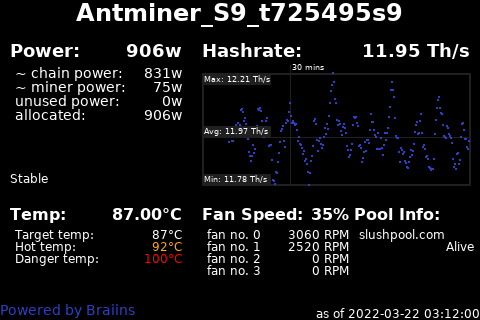
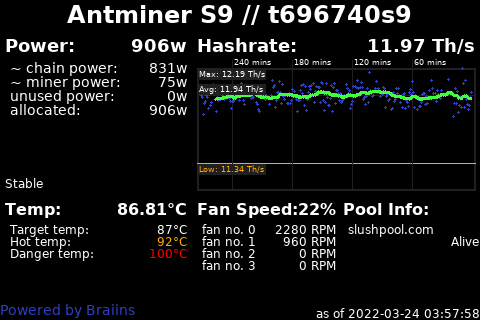
Miner Braiins MA + Monitoring (#72)
- A new moving average line is added to the braiins miner panel
- The braiins miner panel can have expectations defined for power level, hashrate, and pool settings.
  - A value out of spec will cause a warning to be displayed
- README gets some more guidance for different node setups
  - I need more info on nodes. Reach out

diff --git a/scripts/minerbraiins.py b/scripts/minerbraiins.py
@@ -167,6 +167,7 @@ def renderHashrate(draw, minerinfo, left, top, width, height):
     draw.rectangle(xy=[(hrgl,hrgt),(hrgl+hrgw,hrgt+hrgh)],fill=boxfill,outline=colorHashrateBox,width=2)
     # avg line
     hrav = float(hrto) / float(hrcn)
+    hrlo = (hrav * .93) if (hrav * .93) < hrlo else hrlo
     hravp = .5
     if hrhi - hrlo > 0:
         hravp = float(hrav - hrlo)/float(hrhi - hrlo)
@@ -175,21 +176,19 @@ def renderHashrate(draw, minerinfo, left, top, width, height):
     draw.line(xy=[(hrgl,hry),(hrgl+hrgw,hry)],fill=colorHashrateBox,width=1)
     # low line
     lowliney = 0
-    lowlinev = (hrav * .80)
+    lowlinev = (hrav * .95)
+    lowlinecolor = colorHot
     if lowlinev > hrlo:
         hrp = float(lowlinev - hrlo)/float(hrhi-hrlo)
         hry = top + groupFontSize + subtextPadding + ((1.0 - hrp) * hrgh)
         lowliney = hry
-        draw.line(xy=[(hrgl,hry),(hrgl+hrgw,hry)],fill=colorHot,width=1)
-    hrl = len(minerhashhistory[minerkey])
-    hri = hrl
-    hrx = left + width - dataPointSize
+        draw.line(xy=[(hrgl,hry),(hrgl+hrgw,hry)],fill=lowlinecolor,width=1)
     timelineBy30Mins = False
     timelineBy60Ticks = True
     if timelineBy30Mins:
         # time lines every 30 minutes
         pixelsPer30Minutes = 30 * (60 / sleepInterval)
-        timeline = hrx
+        timeline = left + width - dataPointSize
         timeperiod = 0
         while(timeline > left):
             timeline = timeline - pixelsPer30Minutes
@@ -202,7 +201,7 @@ def renderHashrate(draw, minerinfo, left, top, width, height):
         # time lines every 60 ticks
         timePeriodSize = 60
         minutesPerLine = (timePeriodSize * sleepInterval) / 60
-        timeline = hrx
+        timeline = left + width - dataPointSize
         timeperiod = 0
         while(timeline > left):
             timeline = timeline - timePeriodSize
@@ -212,6 +211,12 @@ def renderHashrate(draw, minerinfo, left, top, width, height):
                 timetext = str(int(timeperiod * minutesPerLine)) + " mins"
                 vicarioustext.drawbottomlefttext(draw, timetext, tinyFontSize, timeline+2, hrgt - 1, colorTextFG)
     # data points
+    hrl = len(minerhashhistory[minerkey])
+    hri = hrl
+    hrx = left + width - dataPointSize
+    masize = 20
+    oldmax = -1
+    oldmay = -1
     while(hri > 0):
         hri = hri - 1
         hrx = hrx - 1
@@ -232,6 +237,25 @@ def renderHashrate(draw, minerinfo, left, top, width, height):
             if boxfill == colorDangerous:
                 colorPlot = colorTextFG
             draw.ellipse(xy=[(hrx-1,hry-1),(hrx+1,hry+1)],fill=colorPlot,outline=colorPlot,width=dataPointSize)
+        # moving average
+        if True:
+            if hri > masize:
+                matotal = 0
+                macount = 0
+                for mahri in range(masize):
+                    maval = minerhashhistory[minerkey][hri - mahri]
+                    if maval > -1:
+                        macount = macount + 1
+                        matotal = matotal + maval
+                if macount > 0:
+                    mavg = int(matotal / macount)
+                    mavgp = float(mavg - hrlo)/float(hrhi-hrlo)
+                    mavy = top + groupFontSize + subtextPadding + ((1.0 - mavgp) * hrgh)
+                    if oldmay != -1:
+                        draw.line(xy=[(oldmax,oldmay),(hrx,mavy)],fill=colorHashrateMA,width=dataPointSize)
+                    oldmax = hrx
+                    oldmay = mavy
+
     # high label
     hrmaxt = "Max: " + formatHashrate(hrhi, "Gh/s")
     tw,th,tf=vicarioustext.gettextdimensions(draw, hrmaxt, tinyFontSize, False)
@@ -250,7 +274,7 @@ def renderHashrate(draw, minerinfo, left, top, width, height):
         # as warning
         lowlinet = "Low: " + formatHashrate(lowlinev, "Gh/s")
         draw.rectangle(xy=[(hrgl+1,lowliney+1),(hrgl+tw+2,lowliney+th+2)],outline=colorHashrateBox,fill=colorHashrateBox,width=1)
-        vicarioustext.drawtoplefttext(draw, lowlinet, tinyFontSize, hrgl + 2, lowliney + 1, colorHot)
+        vicarioustext.drawtoplefttext(draw, lowlinet, tinyFontSize, hrgl + 2, lowliney + 1, lowlinecolor)
     else:
         # as floor
         hrmint = "Min: " + formatHashrate(hrlo, "Gh/s")
@@ -324,6 +348,83 @@ def renderPoolInfo(draw, minerinfo, left, top, width, height):
                 vicarioustext.drawtoprighttext(draw, poolstatus, subtextFontSize, left+width, y, colorTextFG)
     vicarioustext.drawtoplefttext(draw, "Pool Info: ", groupFontSize, left, top, colorTextFG, True)
 
+def renderFailedExpectations(draw, minerinfo, left, top, width, height):
+    warning = ""
+    warning2 = ""
+    textFontSize = 12
+    if minerexpectations == {}:
+        return
+    if "power" in minerexpectations:
+        powerlimit = 0
+        if "tunerstatus" in minerinfo:
+            for tunerstatus in minerinfo["tunerstatus"]:
+                for innertuner in tunerstatus["TUNERSTATUS"]:
+                    powerlimit = innertuner["PowerLimit"]
+        if "low" in minerexpectations["power"]:
+            lowpowerthreshold = minerexpectations["power"]["low"]
+            if lowpowerthreshold > powerlimit:
+                warning = "Power configured below expected threshold of " + str(lowpowerthreshold)
+        if "high" in minerexpectations["power"]:
+            highpowerthreshold = minerexpectations["power"]["high"]
+            if highpowerthreshold < powerlimit:
+                warning = "Power configured above expected threshold of " + str(highpowerthreshold)
+    if "hashrate" in minerexpectations:
+        hashrate = 0
+        if "summary" in minerinfo:
+            for summary in minerinfo["summary"]:
+                for innersummary in summary["SUMMARY"]:
+                    if innersummary["MHS 1m"] > hashrate:
+                        hashrate = innersummary["MHS 1m"]
+        if "low" in minerexpectations["hashrate"]:
+            lowhashratethreshold = minerexpectations["hashrate"]["low"]
+            if lowhashratethreshold > hashrate:
+                warning = "Hashrate is below expected threshold of " + str(lowhashratethreshold)
+    if "pools" in minerexpectations:
+        for exppool in minerexpectations["pools"]:
+            poolfound = False
+            urlvalue = ""
+            uservalue = ""
+            if "url" in exppool:
+                urlvalue = exppool["url"]
+            if "user" in exppool:
+                uservalue = exppool["user"]
+            if "pools" in minerinfo:
+                for pool in minerinfo["pools"]:
+                    for currentpool in pool["POOLS"]:
+                        poolurl = currentpool["URL"]
+                        pooluser = currentpool["User"]
+                        if (urlvalue == poolurl) and (uservalue == pooluser):
+                            poolfound = True
+            if not poolfound:
+                warning = "Expected pool not found having user " + uservalue
+                warning2 = " and url " + urlvalue
+        if "pools" in minerinfo:
+            for pool in minerinfo["pools"]:
+                for currentpool in pool["POOLS"]:
+                    poolurl = currentpool["URL"]
+                    pooluser = currentpool["User"]
+                    poolfound = False
+                    for exppool in minerexpectations["pools"]:
+                        if "url" in exppool:
+                            urlvalue = exppool["url"]
+                        if "user" in exppool:
+                            uservalue = exppool["user"]
+                        if (urlvalue == poolurl) and (uservalue == pooluser):
+                            poolfound = True
+                    if not poolfound:
+                        warning = "Miner has pool configured that is not expected"
+                        warning2 = poolurl + " with user " + pooluser
+    # This used to force output when testing
+    #warning = "Miner has pool configured that is not expected"
+    #warning2 = "stratum2+tcp://v2.us-east.stratum.slushpool.com with user WhoDisUser.filthyardvark99"
+    if len(warning) > 0:
+        print(f"WARNING: {warning}")
+        draw.rectangle(xy=[(left,top),(left+width,top+height)],outline=colorDangerous,fill=colorDangerous,width=1)
+        vicarioustext.drawtoplefttext(draw, warning, textFontSize, left, top, colorTextFG)
+    if len(warning2) > 0:
+        print(f"WARNING: {warning2}")
+        vicarioustext.drawbottomlefttext(draw, warning2, textFontSize, left, top+height, colorTextFG)
+
 def createimage(minerinfo, width=480, height=320):
     headerheight = 30
     footerheight = 15
@@ -356,6 +457,7 @@ def createimage(minerinfo, width=480, height=320):
     renderFans(draw, minerinfo, leftquadwidth+quadpad, headerheight+topquadheight+quadpad, int((rightquadwidth-(quadpad*2))*.50), bottomquadheight-(quadpad*2))
     # Output Pool
     renderPoolInfo(draw, minerinfo, leftquadwidth+quadpad+int((rightquadwidth-(quadpad))*.50)+quadpad, headerheight+topquadheight+quadpad, int((rightquadwidth-(quadpad*3))*.50), bottomquadheight-(quadpad*2))
+    renderFailedExpectations(draw, minerinfo, quadpad, height-footerheight-headerheight, width-(quadpad*2), headerheight)
     # Date and Time
     dt = "as of " + vicarioustext.getdateandtime()
     vicarioustext.drawbottomrighttext(draw, dt, 12, width, height, colorTextFG)
@@ -415,9 +517,11 @@ if __name__ == '__main__':
     colorBackground=ImageColor.getrgb("#000000")
     colorHashrateBox=ImageColor.getrgb("#404040")
     colorHashratePlot=ImageColor.getrgb("#00ff00")
+    colorHashrateMA=ImageColor.getrgb("#c0c0c0")
     # Inits
     lastSaved = 0
     saveInterval = 600
+    minerexpectations = {}
     # Require config
     if not exists(configFile):
         print(f"You need to make a config file at {configFile} to set your miner address and login information")
@@ -451,6 +555,8 @@ if __name__ == '__main__':
             colorHashrateBox = ImageColor.getrgb(config["colorHashrateBox"])
         if "colorHashratePlot" in config:
             colorHashratePlot = ImageColor.getrgb(config["colorHashratePlot"])
+        if "colorHashrateMA" in config:
+            colorHashrateMA = ImageColor.getrgb(config["colorHashrateMA"])
     # Data directories
     if not exists(dataDirectory):
         os.makedirs(dataDirectory)
@@ -479,6 +585,10 @@ if __name__ == '__main__':
                     minerlabel = miner["minerlabel"]
                 else:
                     minerlabel = "Miner: " + mineraddress
+                if "expectations" in miner:
+                    minerexpectations = miner["expectations"]
+                else:
+                    minerexpectations = {}
                 if isValidMiner():
                     minerkey = mineraddress
                     minerinfo = getMinerInfo()

diff --git a/README.md b/README.md
@@ -7,6 +7,8 @@ representing different state about your node, market rates, mining and more.
 The images can be easily displayed either on an attached screen using the simple [slideshow.sh](./scripts/slideshow.sh) 
 script or service, or to a [web site dashboard](#displaying-to-a-website-dashboard).
 
+[jump to the quick menu of panels](#quick-menu-of-info-panels)
+
 STATUS: BETA.  Scripts are functional, but there may be bugs, or unhandled exceptions may be raised
 that cause related wrapper service to terminate.  Please test and provide feedback.  
 
@@ -15,6 +17,27 @@ in that environment.  This guide will need to be adapted in the following way
 - references to `admin` should be changed to whichever account you would SSH into the system to do administrative tasks
 - references to `bitcoin` user should be changed to whichever account has the bitcoin and lnd macaroon access to call bitcoin-cli and lncli
 - Because of username differences, paths in scripts may need to be altered for data directories, image output paths, and nginx dashboard paths
+
+__Attention MyNodeBTC users__: These scripts are actively developed on a MyNodeBTC instance so
+if you follow along it should work for you with minimal changes.  If you do find something that
+does not work, please log an issue.  One known issue is that the /home/bitcoin folder for the
+MyNodeBTC instance appears to run off the microsd card.  This could potentially cause problems
+for activity opening/writing/closing files for the images over time.  
+
+__Attention Raspibolt users__: These scripts were initially developed on a Raspibolt with either the
+admin or pi user for sudo, and bitcoin user as the one running all the scripts.  These scripts should
+all work just fine but again reach out if there are issues.
+
+__Attention Raspiblitz users__: The screen on the raspiblitz is one of the reasons this project got
+started.  If you already started with a screen on the raspiblitz then in theory you should have the
+necessary config settings at bootup.  However, I dont know whether there would be conflicts for the
+console output.  Luckily you can still run the service scripts without the slideshow if needed.
+
+__Attention PiZero users__: Yes, you can run some of the scripts on a Raspberry Pi Zero if you want
+to setup an auxiliary device.  Obviously the scripts will run much slower then they would on a more
+resource capable Raspberry Pi 4.  Futhermore, unless you're attaching an external SSD or other
+storage, you should be mindful of the same issues mentioned above for MyNodeBTC regarding many
+read/writes to the microsd card.
 
 ![image strip](./images/nodeyez-4x4-layout.png)
 
@@ -110,7 +133,8 @@ The one I've used I got from a local electronics store.  It looks like this and 
 You can get one from amazon [here](https://www.amazon.com/gp/product/B07V9WW96D) 
   or [here](https://www.amazon.com/gp/product/B07L414LZP)
   or [here](https://www.amazon.com/gp/product/B08KZXSJW2)
-  or [here](https://www.amazon.com/gp/product/B083C12N57)
+  or [here](https://www.amazon.com/gp/product/B083C12N57).  If you can't source one from any of the above, reach
+out to me on Twitter.
 
 
 ![image of the 3.5" TFT screen for raspberry pi](./images/xpt2046-tft-piscreen.jpg)
